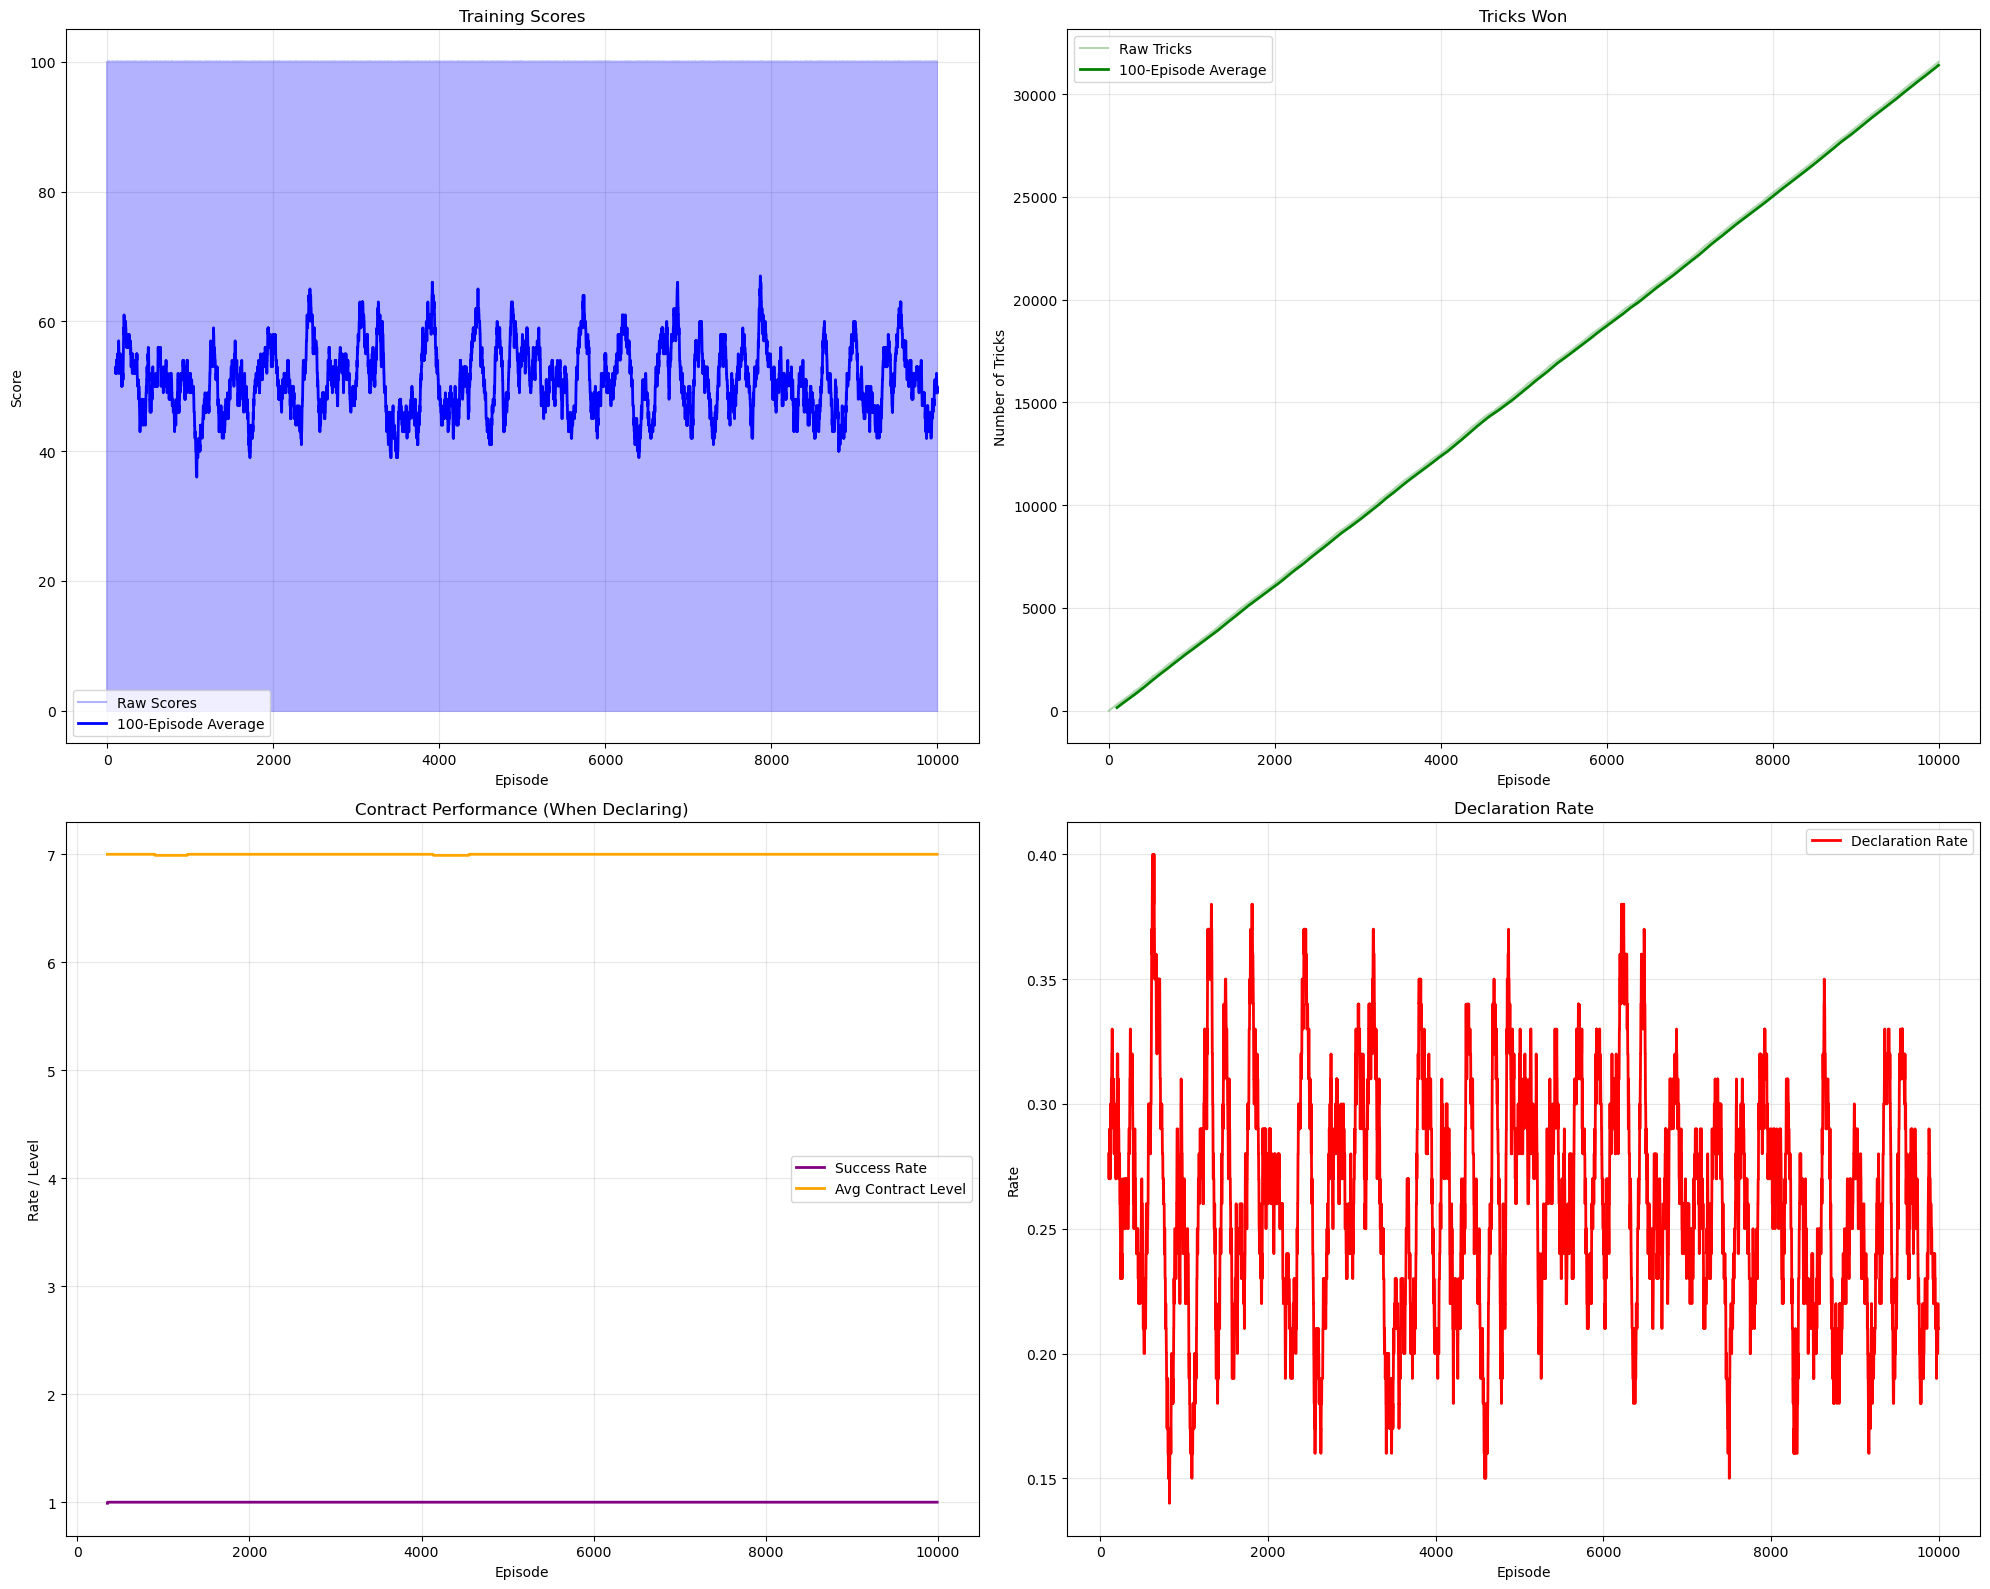
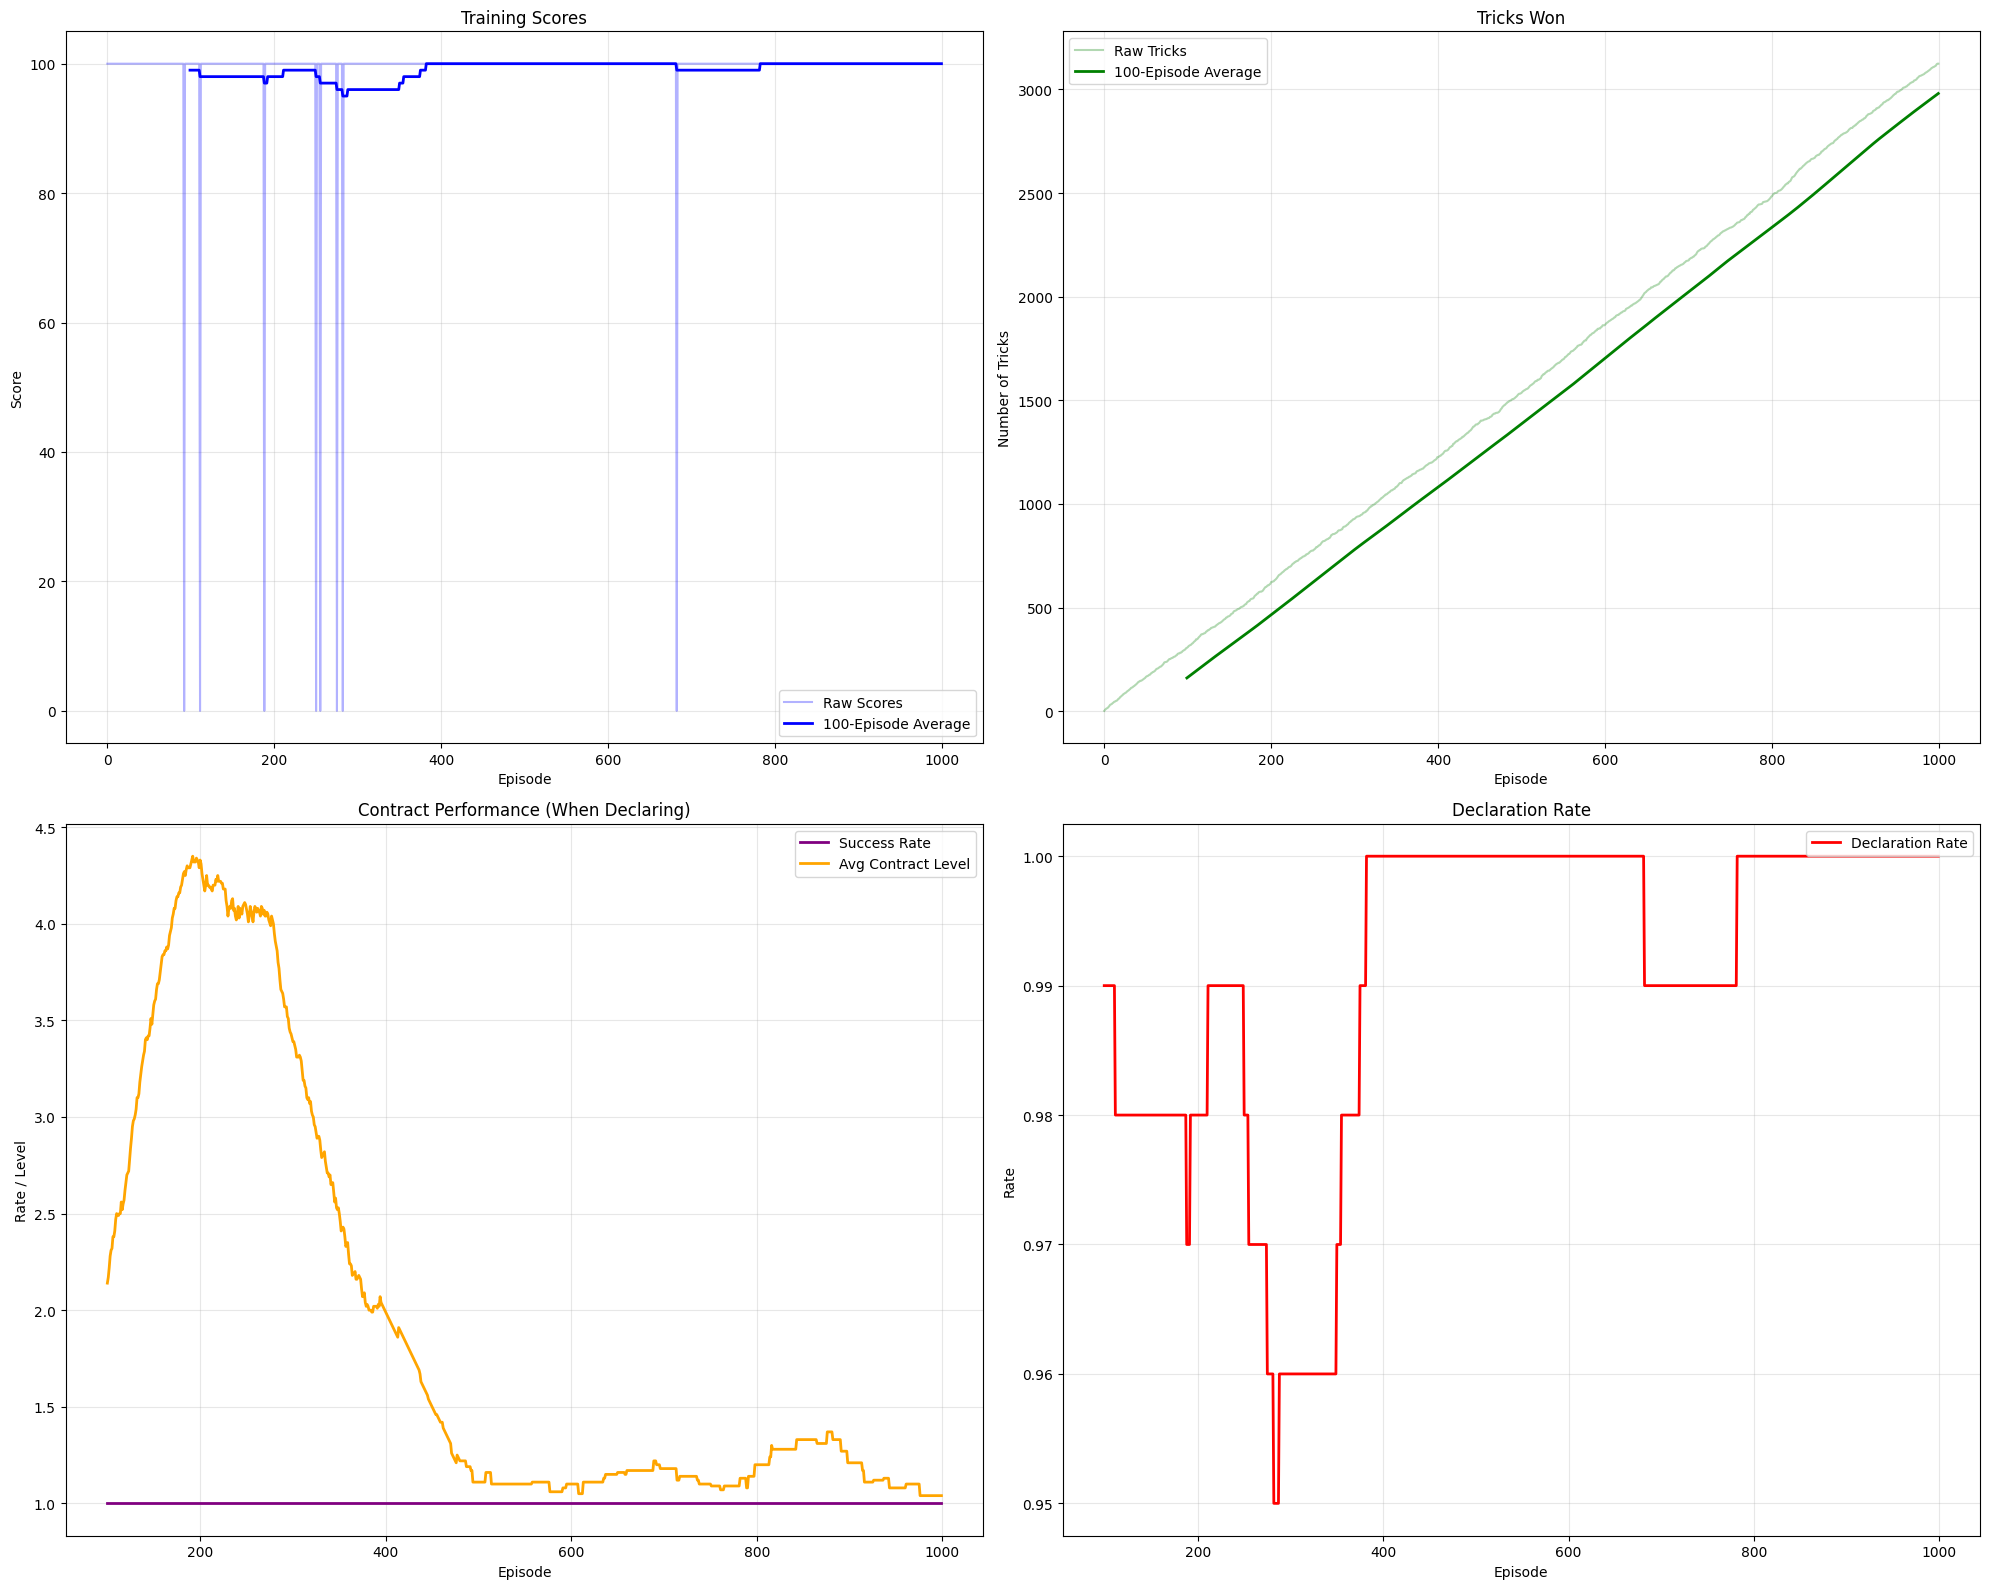
simple rl agent that learns
seems to be working? plateaus after about 2000 iterations

diff --git a/src/train_rl_agent.py b/src/train_rl_agent.py
@@ -9,6 +9,7 @@ from models.game import Game
 from agents.rl_agent import RLAgent
 from agents.random_agent import RandomAgent
 from agents.pass_agent import PassAgent
+from models.card import Suit, Compare_Suits
 
 @dataclass
 class TrainingMetrics:
@@ -19,7 +20,8 @@ class TrainingMetrics:
     contracts_declared: List[bool] = field(default_factory=list)  # True when agent is declarer
     contract_levels: List[int] = field(default_factory=list)  # Bid level when agent is declarer
     contracts_made: List[bool] = field(default_factory=list)  # Success when agent is declarer
-    
+    epsilon_decay_factor: float = 0.99
+
     def update(self, score: float, tricks: int, is_declarer: bool = False, 
                contract_level: Optional[int] = None, made_contract: Optional[bool] = None) -> None:
         """Update metrics with new values."""
@@ -58,7 +60,7 @@ class BridgeTrainer:
 
     # Class constants
     MADE_CONTRACT_MULTIPLIER = 10.0
-    FAILED_CONTRACT_MULTIPLIER = -5.0
+    FAILED_CONTRACT_MULTIPLIER = -3.0
     DECLARER_TRICK_REWARD = 1.0
     DEFENDER_TRICK_REWARD = 0.5
     INITIAL_BID_ENCODING_SIZE = 35
@@ -78,7 +80,7 @@ class BridgeTrainer:
         ]
         self.metrics = TrainingMetrics()
 
-    def _get_reward_for_bid(self, contract_level: int, made_contract: bool) -> float:
+    def _get_reward_for_bid(self, contract_level: int, made_contract: bool, contract_suit: Suit) -> float:
         """Calculate reward for bidding phase.
 
         Args:
@@ -88,12 +90,18 @@ class BridgeTrainer:
         Returns:
             float: Calculated reward value.
         """
+        game = (contract_level >= 3) if contract_suit.is_no_trump else (contract_level >= 4)
+        slam = contract_level >= 6
+        made_mult = 80 if slam else 30 if game else contract_level * 1.2
+        fail_mult = 20 if slam else 10 if game else contract_level
+
         multiplier = (
-            self.MADE_CONTRACT_MULTIPLIER
+            made_mult
             if made_contract
-            else self.FAILED_CONTRACT_MULTIPLIER
+            else -fail_mult
         )
-        return contract_level * multiplier
+
+        return multiplier
 
     def _get_reward_for_trick(self, won_trick: bool, is_declarer: bool) -> float:
         """Calculate reward for each trick.
@@ -145,6 +153,7 @@ class BridgeTrainer:
         is_declarer = bool(game.contract and game.declarer == self.rl_agent)
         contract_level = None
         made_contract = None
+        self.metrics.epsilon_decay_factor *= 0.9999
 
         if is_declarer:
             partner_index = (players.index(self.rl_agent) + 2) % self.NUM_PLAYERS
@@ -154,8 +163,9 @@ class BridgeTrainer:
             tricks_needed = 6 + game.contract.number
             made_contract = declarer_team_tricks >= tricks_needed
             contract_level = game.contract.number
-
-            bid_reward = self._get_reward_for_bid(contract_level, made_contract)
+            contract_suit = game.contract.suit
+            
+            bid_reward = self._get_reward_for_bid(contract_level, made_contract, contract_suit)
 
             final_state = torch.cat(
                 [self.rl_agent._encode_hand(), torch.zeros(self.INITIAL_BID_ENCODING_SIZE)]
@@ -163,8 +173,18 @@ class BridgeTrainer:
 
             action = (contract_level - 1) * 5 + game.contract.suit.index
             self.rl_agent.update_q_network(
-                initial_state, action, bid_reward, final_state, True, is_bidding=True
+                initial_state, action, bid_reward * self.metrics.epsilon_decay_factor,
+                  final_state, True, is_bidding=True
             )
+        
+        # else:
+        #     final_state = torch.cat(
+        #         [self.rl_agent._encode_hand(), torch.zeros(self.INITIAL_BID_ENCODING_SIZE)]
+        #     )
+        #     self.rl_agent.update_q_network(
+        #         initial_state, 0, 0,
+        #           final_state, True, is_bidding=True
+        #     )
 
         return is_declarer, contract_level, made_contract
 
@@ -268,7 +288,7 @@ class BridgeTrainer:
 
 def main() -> None:
     """Main entry point for training."""
-    trainer = BridgeTrainer(num_episodes=10_000)
+    trainer = BridgeTrainer(num_episodes=1_000)
     trainer.train()
 
 

diff --git a/src/models/game.py b/src/models/game.py
@@ -21,8 +21,8 @@ class Game:
 
     def play(self):
         """Play a complete game of bridge."""
-        print("\nStarting new game of Bridge")
-        print("Players:", ", ".join(p.name for p in self.players))
+        # print("\nStarting new game of Bridge")
+        # print("Players:", ", ".join(p.name for p in self.players))
 
         # Deal cards
         self._deal_cards()
@@ -30,10 +30,10 @@ class Game:
         # Bidding phase
         self._conduct_bidding()
         if not self.contract:
-            print("All players passed. Game over.")
+            # print("All players passed. Game over.")
             return
 
-        print(f"\nFinal Contract: {self.contract} " f"by {self.declarer.name}")
+        # print(f"\nFinal Contract: {self.contract} " f"by {self.declarer.name}")
 
         # Playing phase
         self._play_tricks()
@@ -63,7 +63,7 @@ class Game:
             bidding_complete = bidding.make_bid(bid)
 
             # Show current bidding status
-            print(bidding)
+            # print(bidding)
 
             if bidding_complete:
                 self.declarer, self.contract = bidding.get_contract()
@@ -82,7 +82,7 @@ class Game:
         for _ in range(13):
             leader = self.players[current_player_index]
             self.current_trick = Trick(leader, trump_suit)
-            print(f"\nTrick {len(self.tricks_played) + 1}:")
+            # print(f"\nTrick {len(self.tricks_played) + 1}:")
 
             # Each player plays a card
             for _ in range(4):
@@ -94,13 +94,13 @@ class Game:
                 player.play_card(card)
                 self.current_trick.play_card(player, card)
 
-                print(f"{player.name} plays {card}")
+                # print(f"{player.name} plays {card}")
                 current_player_index = (current_player_index + 1) % 4
 
             # Determine winner and start next trick
             winner = self.current_trick.get_winner()
             winner.tricks_won += 1
-            print(f"{winner.name} wins the trick")
+            # print(f"{winner.name} wins the trick")
 
             self.tricks_played.append(self.current_trick)
             current_player_index = self.players.index(winner)
@@ -122,8 +122,8 @@ class Game:
         tricks_needed = 6 + self.contract.number
         contract_made = declarer_team_tricks >= tricks_needed
 
-        print(f"\nDeclarer's team took {declarer_team_tricks} tricks")
-        print(f"Contract {'made' if contract_made else 'failed'}")
+        # print(f"\nDeclarer's team took {declarer_team_tricks} tricks")
+        # print(f"Contract {'made' if contract_made else 'failed'}")
 
         # Simple scoring for now
         if contract_made:
@@ -135,6 +135,6 @@ class Game:
             self.score[opponent1] += 50
             self.score[opponent2] += 50
 
-        print("\nFinal Scores:")
-        for player, score in self.score.items():
-            print(f"{player.name}: {score}")
+        # print("\nFinal Scores:")
+        # for player, score in self.score.items():
+        #     print(f"{player.name}: {score}")

diff --git a/src/models/bidding.py b/src/models/bidding.py
@@ -54,8 +54,8 @@ class Bidding:
         """
         current_player = self.players[self.current_player_index]
         self.bids[current_player] = bid
-        print(f"self.current_declarer: {self.current_declarer}")
-        print(f"current_player: {current_player}")
+        # print(f"self.current_declarer: {self.current_declarer}")
+        # print(f"current_player: {current_player}")
 
         # Update highest bid if not a pass
         if not bid.is_pass and bid > self.highest_bid:

diff --git a/src/models/card.py b/src/models/card.py
@@ -12,6 +12,10 @@ class Suit(Enum):
     @property
     def index(self):
         return SUIT_INDEX[self]
+    
+    @property
+    def is_no_trump(self):
+        return SUIT_INDEX[self] == 4
 
 
 # Maps suits to their index values for encoding/comparison
